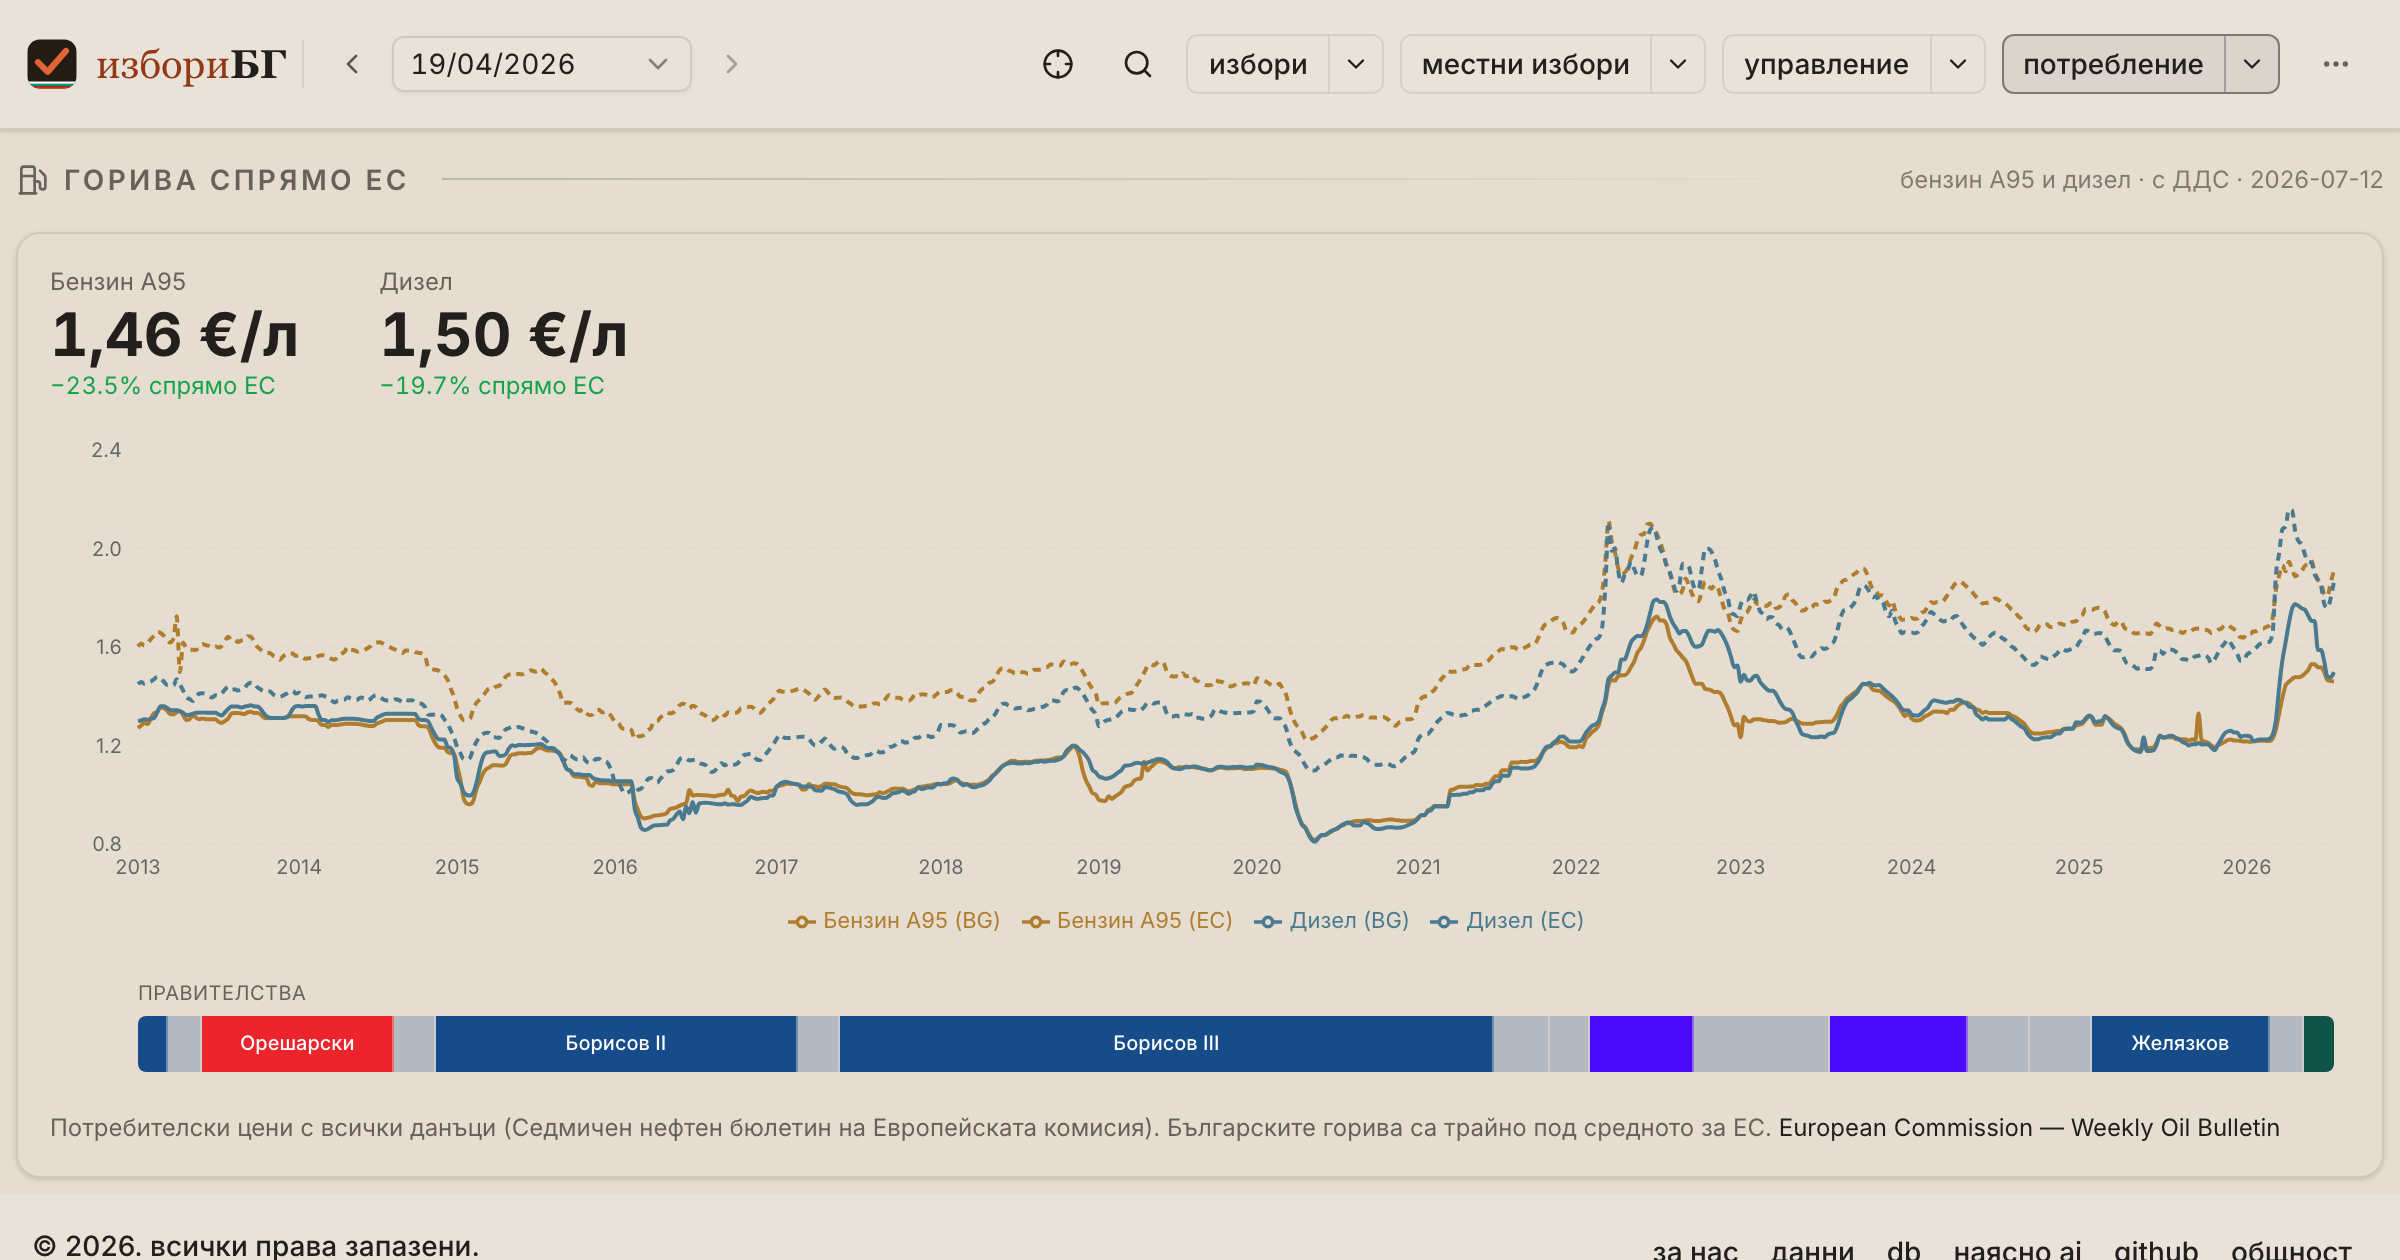
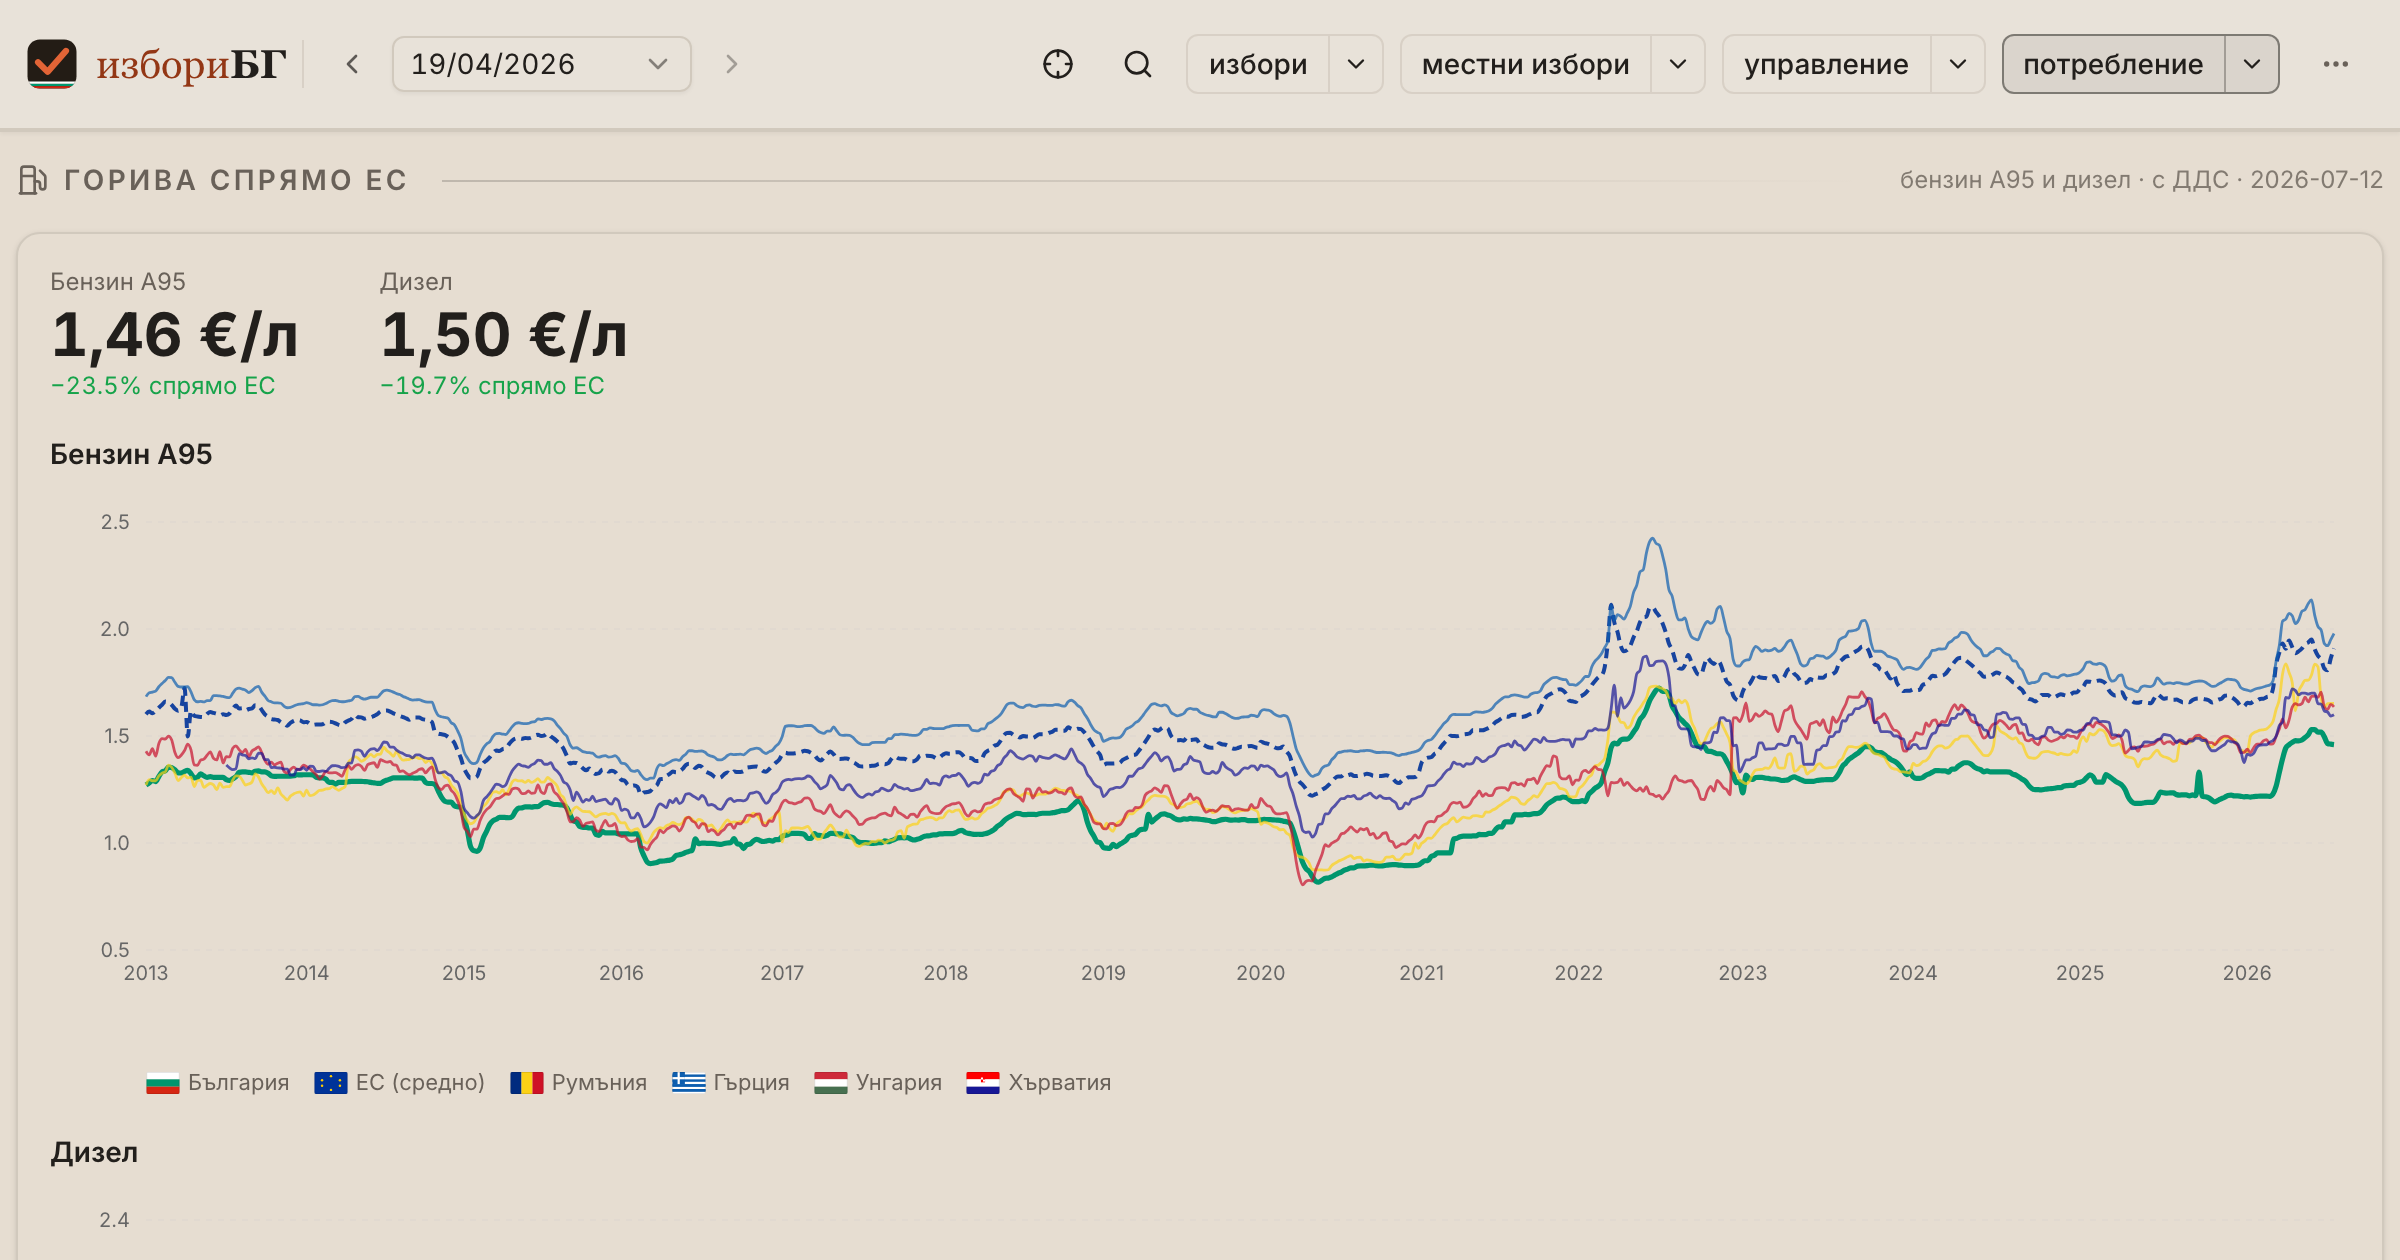
feat(seo): prerender + sitemap + OG images for electricity & gas pages
Wire the new /consumption/electricity and /consumption/gas pages into the SEO
surface, mirroring /consumption/fuel.

- sitemap: add both routes to route_defs.
- prerender: add BG+EN staticPage nodes (crawlable H1/description/prose + source
  links + cross-links between the three energy-cost pages), each pointing at its
  own OG image.
- OG images: new consumption-electricity.png + consumption-gas.png (BG-vs-EU+peer
  line chart with flag legend), and regenerated consumption-fuel.png to reflect
  the new petrol/diesel peer-line design. screenshot_consumption.ts targets added.

diff --git a/scripts/prerender/routes.ts b/scripts/prerender/routes.ts
@@ -1809,6 +1809,58 @@ export const prerenderRoutes: PrerenderRoute[] = [
     },
   }),
   staticPage({
+    path: "consumption/electricity",
+    title:
+      "Цена на тока за домакинствата в България спрямо ЕС | electionsbg.com",
+    description:
+      "Цената на електроенергията за домакинствата в България спрямо средното за ЕС и съседните държави (Румъния, Гърция, Унгария, Хърватия) — с всички данъци (EUR/kWh) по данни на Евростат. България е сред най-ниските в съюза (около половината от средното за ЕС).",
+    breadcrumbName: "Ток",
+    ogImage: "/og/consumption-electricity.png",
+    bodyHtml: `
+<h1>Цена на тока за домакинствата в България спрямо ЕС</h1>
+<p>Цената на електроенергията за българските домакинства, сравнена със средното за Европейския съюз и със съседните държави (Румъния, Гърция, Унгария, Хърватия) — потребителски цени с всички данъци, полугодишно от 2007 г. България е сред най-ниските в съюза, около половината от средното за ЕС.</p>
+<p>Виж и <a href="${SITE_URL}/consumption/gas">цената на природния газ</a> и целия <a href="${SITE_URL}/consumption">изглед „Потребление"</a>.</p>
+<p>Източник: <a href="https://ec.europa.eu/eurostat/databrowser/view/nrg_pc_204/default/table" rel="nofollow noopener">Евростат — nrg_pc_204</a>.</p>`.trim(),
+    english: {
+      title:
+        "Household electricity prices in Bulgaria vs the EU | electionsbg.com",
+      description:
+        "Household electricity prices in Bulgaria against the EU average and its neighbours (Romania, Greece, Hungary, Croatia) — all taxes (EUR/kWh) from Eurostat. Bulgaria is among the lowest in the union (about half the EU average).",
+      breadcrumbName: "Electricity",
+      bodyHtml: `
+<h1>Household electricity prices in Bulgaria vs the EU</h1>
+<p>The household electricity price in Bulgaria compared with the European Union average and its neighbours (Romania, Greece, Hungary, Croatia) — consumer prices including all taxes, bi-annually since 2007. Bulgaria is among the lowest in the union, about half the EU average.</p>
+<p>See also <a href="${SITE_URL}/en/consumption/gas">natural-gas prices</a> and the full <a href="${SITE_URL}/en/consumption">Consumption view</a>.</p>
+<p>Source: <a href="https://ec.europa.eu/eurostat/databrowser/view/nrg_pc_204/default/table" rel="nofollow noopener">Eurostat — nrg_pc_204</a>.</p>`.trim(),
+    },
+  }),
+  staticPage({
+    path: "consumption/gas",
+    title:
+      "Цена на природния газ за домакинствата в България спрямо ЕС | electionsbg.com",
+    description:
+      "Цената на природния газ за домакинствата в България спрямо средното за ЕС и съседните държави (Румъния, Гърция, Унгария, Хърватия) — с всички данъци (EUR/kWh) по данни на Евростат. България е сред най-ниските в съюза.",
+    breadcrumbName: "Природен газ",
+    ogImage: "/og/consumption-gas.png",
+    bodyHtml: `
+<h1>Цена на природния газ за домакинствата в България спрямо ЕС</h1>
+<p>Цената на природния газ за българските домакинства, сравнена със средното за Европейския съюз и със съседните държави (Румъния, Гърция, Унгария, Хърватия) — потребителски цени с всички данъци, полугодишно от 2007 г. Малка част от домакинствата у нас ползват мрежов газ, но цената е сред най-ниските в ЕС — около половината от средното.</p>
+<p>Виж и <a href="${SITE_URL}/consumption/electricity">цената на тока</a> и целия <a href="${SITE_URL}/consumption">изглед „Потребление"</a>.</p>
+<p>Източник: <a href="https://ec.europa.eu/eurostat/databrowser/view/nrg_pc_202/default/table" rel="nofollow noopener">Евростат — nrg_pc_202</a>.</p>`.trim(),
+    english: {
+      title:
+        "Household natural-gas prices in Bulgaria vs the EU | electionsbg.com",
+      description:
+        "Household natural-gas prices in Bulgaria against the EU average and its neighbours (Romania, Greece, Hungary, Croatia) — all taxes (EUR/kWh) from Eurostat. Bulgaria is among the lowest in the union.",
+      breadcrumbName: "Natural gas",
+      bodyHtml: `
+<h1>Household natural-gas prices in Bulgaria vs the EU</h1>
+<p>The household natural-gas price in Bulgaria compared with the European Union average and its neighbours (Romania, Greece, Hungary, Croatia) — consumer prices including all taxes, bi-annually since 2007. Only a small share of Bulgarian households use piped gas, but the price is among the lowest in the EU — about half the average.</p>
+<p>See also <a href="${SITE_URL}/en/consumption/electricity">electricity prices</a> and the full <a href="${SITE_URL}/en/consumption">Consumption view</a>.</p>
+<p>Source: <a href="https://ec.europa.eu/eurostat/databrowser/view/nrg_pc_202/default/table" rel="nofollow noopener">Eurostat — nrg_pc_202</a>.</p>`.trim(),
+    },
+  }),
+  staticPage({
     path: "consumption/products",
     title: "Продукти и цени в България — каталог от еврото | electionsbg.com",
     description:

diff --git a/scripts/og/screenshot_consumption.ts b/scripts/og/screenshot_consumption.ts
@@ -6,7 +6,7 @@
 //   npm run dev
 //   OG_BASE_URL=http://localhost:5173 npx tsx scripts/og/screenshot_consumption.ts
 //
-// Output: public/og/consumption-eu.png, public/og/consumption-overview.png
+// Output: public/og/consumption-{eu,overview,fuel,electricity,gas}.png
 
 import fs from "fs";
 import path from "path";
@@ -45,10 +45,25 @@ const TARGETS: Target[] = [
     scrollTo: "map",
     wait: "#map .leaflet-tile-loaded, #map svg path",
   },
-  // The BG-vs-EU fuel-price trend (4-line Recharts chart + the vs-EU stat pair).
+  // The BG-vs-EU fuel-price trend (petrol + diesel charts, BG/EU/peer lines + the
+  // vs-EU stat pair).
   {
     path: "/consumption/fuel",
     out: "consumption-fuel.png",
+    scrollTo: "prices",
+    wait: "#prices .recharts-line, #prices .tabular-nums",
+  },
+  // Household electricity price BG vs EU + peers (line chart + the vs-EU stat).
+  {
+    path: "/consumption/electricity",
+    out: "consumption-electricity.png",
+    scrollTo: "prices",
+    wait: "#prices .recharts-line, #prices .tabular-nums",
+  },
+  // Household natural-gas price BG vs EU + peers (line chart + the vs-EU stat).
+  {
+    path: "/consumption/gas",
+    out: "consumption-gas.png",
     scrollTo: "prices",
     wait: "#prices .recharts-line, #prices .tabular-nums",
   },

diff --git a/scripts/sitemap/route_defs.ts b/scripts/sitemap/route_defs.ts
@@ -73,6 +73,8 @@ export const ENGLISH_STATIC_PAGES = [
   "consumption/overview",
   "consumption/eu",
   "consumption/fuel",
+  "consumption/electricity",
+  "consumption/gas",
   "consumption/chains",
   "consumption/categories",
   "consumption/products",